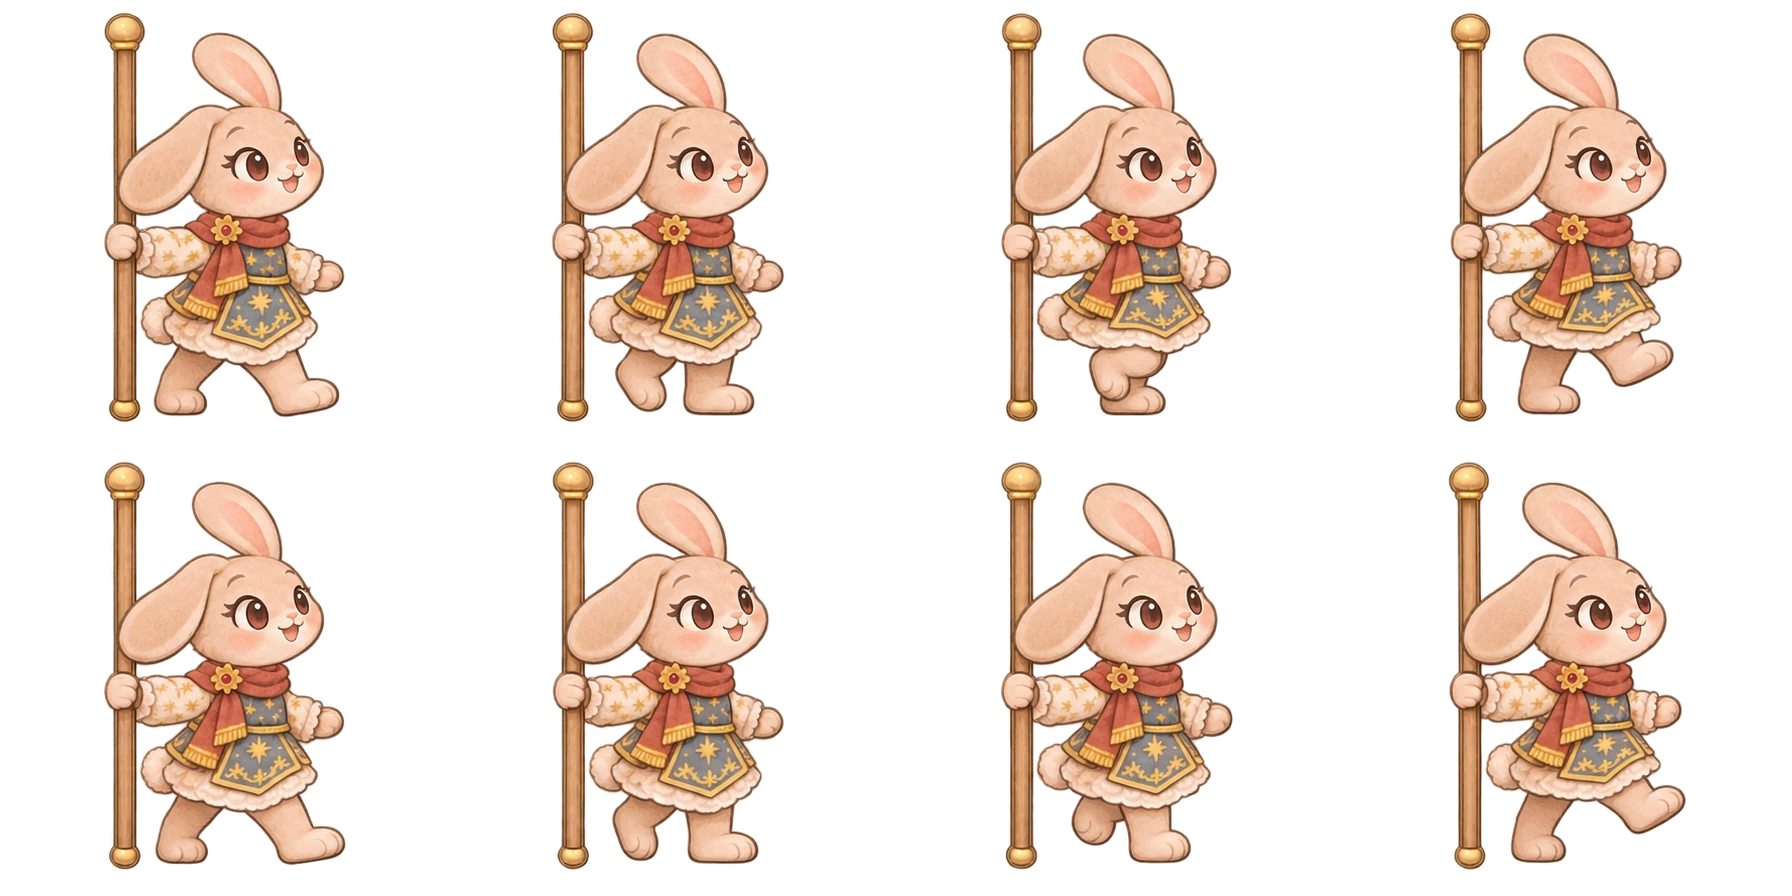
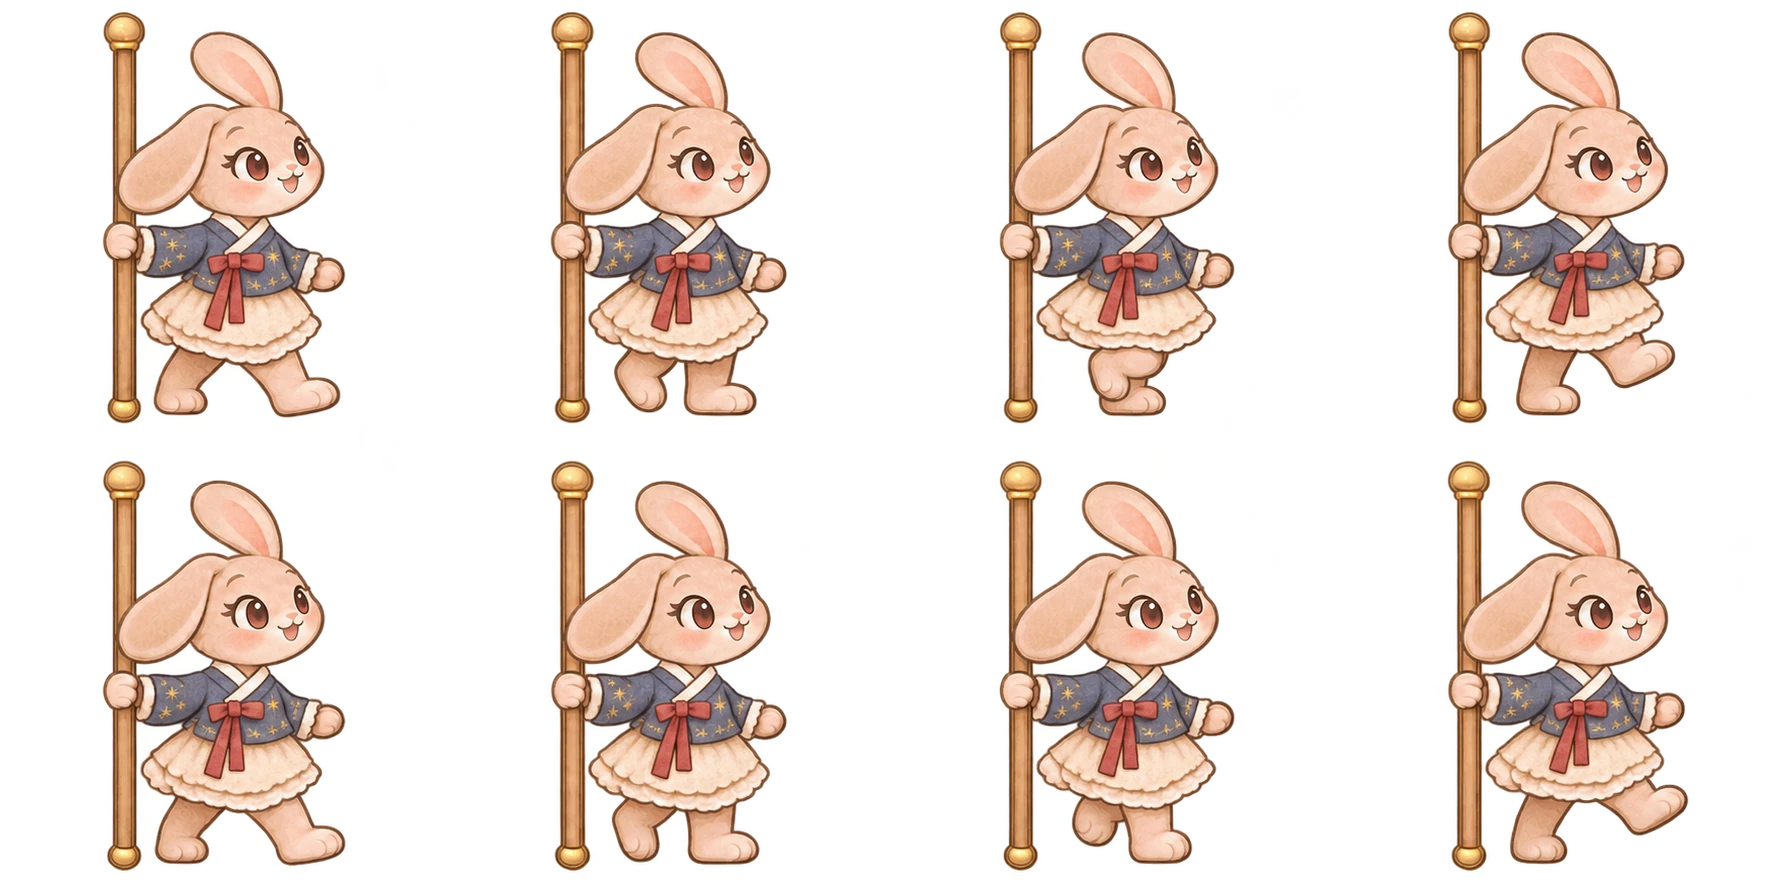
퍼레이드 캐릭터를 한복 걷기 그림으로, 오색 꽃가루 축하 연출 추가
- 리리·모모·루루 걷기 시트를 한복 그림으로(parade-src/hanbok, 1774×887 → 1792×896 448칸). 장대·발 기준값은 예전과 같아 그대로
- 오색 꽃가루 아틀라스를 15장(꽃잎·한지 색종이·별 × 다홍·청록·황금·아이보리·보라)으로 나눔: assets/parade/confetti
- 캔버스 파티클: 크기(1920 기준 8~24px 비례)·처음 각도·회전 속도·낙하 속도가 저마다 다르고, 바람·중력·공기 저항, 나타날 때·사라질 때 투명도
  꽃잎은 살랑, 색종이는 빙글빙글 뒤집힘, 별은 반짝이며 천천히
- 행진에 맞춘 일정: 시작에 양옆 팡(40~60) → 2~3초마다 위에서 조금씩 → 퇴장할 때 왼쪽·오른쪽·양쪽 함께 피날레(130), 끝난 뒤 몇 초 흩날리다 사라짐
- 배경 → 뒤쪽 꽃가루(작고 옅게) → 캐릭터·현수막 → 앞쪽 꽃가루(조금 크고 선명하게). 최대 200개, 화면 밖은 지움, 다시 보기·닫기 때 정리
- 퍼레이드 캔버스 pointer-events: none

diff --git a/js/parade/show.js b/js/parade/show.js
@@ -6,8 +6,11 @@
  *  2. 시작 1120ms(오프닝 README 의 카트 신호)에 모모·루루가 현수막을 들고 왼쪽에서 걸어 들어옴.
  *     리리는 행렬이 가까이 오면 걷기 그림으로 바꿔 맨 앞에서 같이 걸음
  *  3. 현수막 가운데가 화면 가운데에 오면 잠깐 멈춰 작품을 보여 주고, 다시 걸어서 오른쪽으로 퇴장
- * 걷기 시트(448 칸, 4×2): 장대 중심 x 모모 329, 루루 125. 모모·루루는 같은 프레임 번호·같은 속도.
+ * 걷기 시트(한복, 448 칸, 4×2): 장대 중심 x 모모 329, 루루 125. 모모·루루는 같은 프레임 번호·같은 속도.
  * 현수막은 아이가 꾸민 그림(비율 그대로)을 두 장대 사이에 붙이고, 그림 아래 술 장식(아랫단)만 살짝 흔듦.
+ * 오색 꽃가루(assets/parade/confetti/*.png — 꽃잎·한지 색종이·별 × 다홍·청록·황금·아이보리·보라 15장):
+ *  행진 시작에 양옆에서 팡 → 행진 중 위에서 조금씩(2~3초마다) → 퇴장할 때 피날레(왼쪽 → 오른쪽 → 양쪽 함께)
+ *  뒤쪽 꽃가루(작고 옅게)는 캐릭터 뒤에, 앞쪽 꽃가루(조금 크고 선명하게)는 캐릭터 앞에 같은 캔버스로 그림
  * 좌표는 배경 그림(1672×941) 기준.
  */
 (function () {
@@ -38,9 +41,104 @@
     });
     return cache[key];
   }
+  function loadImg(src) {
+    if (!cache[src]) cache[src] = new Promise(function (res, rej) {
+      var im = new Image(); im.onload = function () { res(im); }; im.onerror = rej; im.src = src;
+    });
+    return cache[src];
+  }
+  var CF_KINDS = ['petal', 'paper', 'star'];
   function loadAll(base) {
-    return Promise.all(['parade-bg', 'riri-opening', 'riri', 'momo', 'lulu'].map(function (n) { return load(base, n); }))
-      .then(function (a) { return { bg: a[0], open: a[1], riri: a[2], momo: a[3], lulu: a[4] }; });
+    var confetti = [];
+    CF_KINDS.forEach(function (k) { for (var c = 0; c < 5; c++) confetti.push(loadImg(base + 'confetti/' + k + '-' + c + '.png')); });
+    return Promise.all(['parade-bg', 'riri-opening', 'riri', 'momo', 'lulu'].map(function (n) { return load(base, n); }).concat(confetti))
+      .then(function (a) {
+        var cf = { petal: a.slice(5, 10), paper: a.slice(10, 15), star: a.slice(15, 20) };
+        return { bg: a[0], open: a[1], riri: a[2], momo: a[3], lulu: a[4], confetti: cf };
+      });
+  }
+
+  // ---------- 오색 꽃가루(파티클) ----------
+  // 크기는 1920×1080 화면 기준 8~24px → 이 캔버스(1672 폭)에 비례. 캔버스가 화면 크기대로 늘고 줄어 함께 비례함
+  var CF_SCALE = IW / 1920, CF_MAX = 200;
+  // 종류마다 낙하: 중력 g(px/s²) · 공기 저항 k(1/s) → 끝 속도 약 g/k
+  var CF_KIND = {
+    petal: { g: 240, k: 3.2 },    // 약 75px/s, 좌우로 살랑
+    paper: { g: 260, k: 2.7 },    // 약 95px/s, 빙글빙글 뒤집힘
+    star: { g: 170, k: 3.6 }      // 약 47px/s, 천천히 반짝
+  };
+  function rnd(a, b) { return a + Math.random() * (b - a); }
+  function pick(arr) { return arr[Math.floor(Math.random() * arr.length)]; }
+  function makeConfetti(ctx, set) {
+    var parts = [], t = 0;
+    function add(o) {
+      if (parts.length >= CF_MAX) return;
+      var kind = o.kind || pick(CF_KINDS), front = o.front != null ? o.front : Math.random() < 0.45;
+      var im = pick(set[kind]), base = rnd(8, 24) * CF_SCALE;
+      var size = base * (front ? rnd(1.15, 1.45) : rnd(0.55, 0.8));
+      parts.push({
+        kind: kind, im: im, front: front, size: size, ar: im.height / im.width,
+        x: o.x, y: o.y, vx: o.vx || 0, vy: o.vy || 0,
+        r: rnd(0, Math.PI * 2),
+        vr: (Math.random() < 0.5 ? -1 : 1) * (kind === 'paper' ? rnd(2.2, 5.5) : rnd(0.3, 1.2)),
+        ph: rnd(0, Math.PI * 2), sf: kind === 'paper' ? rnd(4, 9) : kind === 'star' ? rnd(3, 6) : rnd(1.6, 2.8),
+        sway: kind === 'petal' ? rnd(25, 55) : kind === 'paper' ? rnd(8, 22) : rnd(5, 12),
+        drag0: o.burst ? rnd(0.45, 0.85) : null,   // 터질 때는 공기 저항이 약하다가 점점 종류의 값으로
+        age: 0, life: o.life || rnd(6, 9), alpha: front ? rnd(0.9, 1) : rnd(0.5, 0.7)
+      });
+    }
+    // 양옆 아래에서 위로 팡: side -1 왼쪽, 1 오른쪽
+    function burst(side, n, life) {
+      for (var i = 0; i < n; i++) add({
+        burst: true, life: life ? rnd(life[0], life[1]) : rnd(4, 6),
+        x: side < 0 ? rnd(-20, 40) : IW - rnd(-20, 40), y: IH * rnd(0.8, 0.98),
+        vx: -side * rnd(220, 980), vy: -rnd(900, 1500)
+      });
+    }
+    // 위에서 조금씩 흩날림(꽃잎·색종이 위주)
+    function drift(n) {
+      for (var i = 0; i < n; i++) add({
+        kind: Math.random() < 0.85 ? (Math.random() < 0.55 ? 'petal' : 'paper') : 'star',
+        x: rnd(-40, IW + 40), y: rnd(-60, -20), vx: rnd(-20, 20), vy: rnd(20, 60), life: rnd(9, 13)
+      });
+    }
+    function wind(time) { return 26 * Math.sin(time / 2.3) + 11 * Math.sin(time / 0.83 + 1.3); }
+    function update(dt) {
+      t += dt;
+      var w = wind(t);
+      for (var i = parts.length - 1; i >= 0; i--) {
+        var p = parts[i], kd = CF_KIND[p.kind];
+        p.age += dt;
+        var k = p.drag0 != null ? p.drag0 + (kd.k - p.drag0) * Math.min(1, p.age / 1.1) : kd.k;
+        p.vy += kd.g * dt;
+        p.vx += (w - p.vx) * Math.min(1, k * 0.35 * dt);          // 바람 쪽으로 천천히 끌림
+        p.vx -= p.vx * k * 0.25 * dt; p.vy -= p.vy * k * dt;       // 공기 저항(세로가 더 커서 넓게 퍼지며 떨어짐)
+        p.ph += p.sf * dt;
+        p.x += (p.vx + (p.kind === 'petal' ? p.sway * Math.cos(p.ph) : p.sway * 0.5 * Math.cos(p.ph * 0.5))) * dt;
+        p.y += p.vy * dt;
+        p.r += p.vr * dt;
+        if (p.age > p.life || p.y > IH + 40 || p.x < -120 || p.x > IW + 120) parts.splice(i, 1);
+      }
+    }
+    function draw(front) {
+      for (var i = 0; i < parts.length; i++) {
+        var p = parts[i];
+        if (p.front !== front) continue;
+        var fade = Math.min(1, p.age / 0.25) * Math.min(1, (p.life - p.age) / 0.9);   // 나타날 때·사라질 때 부드럽게
+        var sx = 1, sy = 1, a = p.alpha * fade, r = p.r;
+        if (p.kind === 'petal') { r += 0.5 * Math.sin(p.ph); sx = 0.72 + 0.28 * Math.cos(p.ph * 1.3); }
+        else if (p.kind === 'paper') { sx = Math.cos(p.ph); if (Math.abs(sx) < 0.08) sx = sx < 0 ? -0.08 : 0.08; }
+        else { var tw = Math.sin(p.ph); sx = sy = 0.9 + 0.12 * tw; a *= 0.78 + 0.22 * tw; }
+        if (a <= 0.01) continue;
+        var c = Math.cos(r), s = Math.sin(r), w = p.size, h = p.size * p.ar;
+        ctx.globalAlpha = a;
+        ctx.setTransform(c * sx, s * sx, -s * sy, c * sy, p.x, p.y);
+        ctx.drawImage(p.im, -w / 2, -h / 2, w, h);
+      }
+      ctx.setTransform(1, 0, 0, 1, 0, 0); ctx.globalAlpha = 1;
+    }
+    return { burst: burst, drift: drift, update: update, draw: draw, count: function () { return parts.length; },
+      clear: function () { parts.length = 0; t = 0; } };
   }
   function openingFrame(ms) {
     for (var i = 0, end = 0; i < OPEN_MS.length; i++) { end += OPEN_MS[i]; if (ms < end) return i; }
@@ -78,7 +176,8 @@
     var cv = opt.canvas, ctx = cv.getContext('2d');
     cv.width = IW; cv.height = IH;
     var banner = opt.banner, hem = null, art = null, raf = 0, t0 = 0, ended = false, imgs = null;
-    var ready = loadAll(opt.base || 'assets/parade/').then(function (a) { imgs = a; return a; });
+    var cf = null, cues = null, lastMs = 0;
+    var ready = loadAll(opt.base || 'assets/parade/').then(function (a) { imgs = a; cf = makeConfetti(ctx, a.confetti); return a; });
 
     // 현수막 크기: 높이는 정해 두고, 폭은 꾸민 그림 비율 그대로(장대 간격 = 현수막 폭)
     var bh = BANNER_H * K, bw = bh * 2;
@@ -107,7 +206,8 @@
       if (w < walkIn) { travel = w; phase = 'in'; }
       else if (w < walkIn + PAUSE_MS) { travel = walkIn; phase = 'pause'; }
       else { travel = walkIn + Math.min(walkOut, w - walkIn - PAUSE_MS); phase = w - walkIn - PAUSE_MS >= walkOut ? 'done' : 'out'; }
-      return { pole: startX + travel * WALK.speed, travel: travel, phase: phase, walking: phase === 'in' || phase === 'out' };
+      return { pole: startX + travel * WALK.speed, travel: travel, phase: phase, walking: phase === 'in' || phase === 'out',
+        outAt: CART_CUE + walkIn + PAUSE_MS };
     }
 
     function sheet(im, frame, x, y) {
@@ -132,6 +232,7 @@
       if (!imgs) return;
       ctx.clearRect(0, 0, IW, IH);
       ctx.drawImage(imgs.bg, 0, 0, IW, IH);
+      if (cf) cf.draw(false);                            // 뒤쪽 꽃가루(작고 옅게)
       var tl = timeline(ms);
       var frame = tl.walking ? Math.floor(tl.travel / WALK.frameMs) % 8 : 0;
       var momoX = tl.pole - MOMO.pole * K, momoY = GROUND - MOMO.foot * K;
@@ -152,6 +253,7 @@
         shadow(lead, 110 * K);
         sheet(imgs.riri, frame, lead - RIRI.mid * K, GROUND - RIRI.foot * K);
       }
+      if (cf) cf.draw(true);                             // 앞쪽 꽃가루(조금 크고 선명하게)
       return tl.phase;
     }
     function shadow(x, w) {
@@ -162,24 +264,45 @@
       ctx.fillStyle = g; ctx.beginPath(); ctx.arc(0, 0, w, 0, Math.PI * 2); ctx.fill();
       ctx.restore();
     }
+    // 꽃가루 일정(행진 시간에 맞춤): 행진 시작 팡(양옆 합쳐 40~60) → 2~3초마다 조금씩 → 퇴장할 때 피날레(130)
+    function makeCues() {
+      var tl = timeline(0), list = [];
+      list.push({ at: CART_CUE, fn: function () { var n = 40 + Math.floor(Math.random() * 21); cf.burst(-1, Math.ceil(n / 2)); cf.burst(1, Math.floor(n / 2)); } });
+      for (var at = CART_CUE + 2400; at < tl.outAt + 400; at += rnd(2000, 3000)) list.push({ at: at, fn: function () { cf.drift(3 + Math.floor(Math.random() * 4)); } });
+      list.push({ at: tl.outAt + 500, fn: function () { cf.burst(-1, 30, [4, 5.5]); } });
+      list.push({ at: tl.outAt + 1300, fn: function () { cf.burst(1, 30, [4, 5.5]); } });
+      list.push({ at: tl.outAt + 2300, fn: function () { cf.burst(-1, 35, [4.5, 6]); cf.burst(1, 35, [4.5, 6]); } });
+      return list.sort(function (a, b) { return a.at - b.at; });
+    }
+    function runCues(ms) {
+      while (cues && cues.length && cues[0].at <= ms) cues.shift().fn();
+    }
     function loop(now) {
-      var phase = render(now - t0);
-      if (phase === 'done') { if (!ended) { ended = true; if (opt.onEnd) opt.onEnd(); } return; }
+      var ms = now - t0, dt = Math.min(0.05, Math.max(0, (ms - lastMs) / 1000));
+      lastMs = ms;
+      runCues(ms); cf.update(dt);
+      var phase = render(ms);
+      if (phase === 'done' && !ended) { ended = true; if (opt.onEnd) opt.onEnd(); }
+      // 행진이 끝나도 마지막 꽃가루가 다 흩날려 사라질 때까지 그림
+      if (phase === 'done' && !cf.count() && !(cues && cues.length)) return;
       raf = requestAnimationFrame(loop);
     }
     function play() {
       cancelAnimationFrame(raf); ended = false;
       return ready.then(function () {
+        cancelAnimationFrame(raf);
+        cf.clear(); cues = makeCues(); lastMs = 0;     // 다시 보기: 남은 꽃가루·일정을 비우고 처음부터(겹치지 않게)
         t0 = performance.now();
         raf = requestAnimationFrame(loop);
       });
     }
-    function stop() { cancelAnimationFrame(raf); }
+    function stop() { cancelAnimationFrame(raf); if (cf) cf.clear(); cues = null; }
     return {
       play: play, stop: stop, ready: ready, setBanner: setBanner,
       // 검증용: 특정 시각의 장면을 그려 보고 위치를 돌려줌
+      _confetti: function () { return cf ? cf.count() : 0; },
       _at: function (ms) {
-        stop(); render(ms);
+        cancelAnimationFrame(raf); render(ms);
         var tl = timeline(ms);
         return { phase: tl.phase, momoPole: tl.pole, luluPole: tl.pole + bw, bannerW: bw, bannerH: bh,
           frame: tl.walking ? Math.floor(tl.travel / WALK.frameMs) % 8 : 0 };

diff --git a/css/parade.css b/css/parade.css
@@ -165,7 +165,7 @@ body.parade-open #hud, body.parade-open #enterFacility, body.parade-open #chatBa
   animation: pr-pop-in 0.28s ease-out;
 }
 @keyframes pr-pop-in { from { transform: scale(0.92); opacity: 0; } to { transform: none; opacity: 1; } }
-.pr-pop-canvas { display: block; width: 100%; height: 100%; }
+.pr-pop-canvas { display: block; width: 100%; height: 100%; pointer-events: none; }   /* 퍼레이드·꽃가루 캔버스는 버튼 조작을 막지 않음 */
 .pr-pop-x {
   position: absolute; right: 1.6%; top: 2.4%; width: 3.6cqw; height: 3.6cqw; border-radius: 50%; padding: 0;
   font-size: 1.7cqw; line-height: 1; background: #fff8f1; color: #8b3a48; border: 0.16cqw solid #e2b357;

diff --git a/tools/build_parade.py b/tools/build_parade.py
@@ -1,33 +1,64 @@
-"""레인보우 퍼레이드 그림 만들기
+"""무지개 행진길(레인보우 퍼레이드) 그림 만들기
 
 받은 원본(assets/parade-src)을 게임용 그림(assets/parade)으로 바꿉니다.
-- lobby.webp        : 장밋빛 퍼레이드 로비(1672×941) — 대기실 배경
-- parade-bg.webp    : 분수 정원 광장(1672×941) — 퍼레이드 팝업 배경
-- riri-opening.webp : 리리 인사 8프레임(640×640 칸, 4×2) — 발 기준점 (320, 608)
-- riri/momo/lulu.webp : 걷기 8프레임(448×448 칸, 4×2) — 장대 중심 x 모모 330, 루루 125 (walk-README.md)
+- lobby.webp        : 대기실 배경(1672×941)
+- parade-bg.webp    : 퍼레이드 팝업 배경(1672×941)
+- riri/momo/lulu.webp : 한복 걷기 8프레임 — 받은 시트(parade-src/hanbok/*.png, 1774×887 = 443.5 칸)를
+                      1792×896(448 칸, 4×2)으로 맞춤. 예전 걷기 시트와 장대 중심 x(모모 330, 루루 125)·발 밑 y가 같아서
+                      js/parade/show.js 의 기준값을 그대로 씀
+- confetti/{petal,paper,star}-0~4.png : 오색 꽃가루 아틀라스(parade-src/confetti-atlas.png, 5칸×3줄)를 15장으로 나눔
+                      줄: 꽃잎 · 한지 색종이 · 별 / 칸: 다홍 · 청록 · 황금 · 아이보리 · 보라
+                      칸마다 투명 여백만 잘라 내고(비율·질감 그대로) 긴 변 최대 96px로 줄임
+리리 인사(riri-opening.webp)는 tools/build_hanok_npcs.py 가 만듭니다.
 (assets/parade-src/toolbox.png 는 처음 받은 화면 시안 — 참고용, 게임에는 쓰지 않음)
-그림을 바꾸려면 assets/parade-src 의 같은 이름 파일을 바꾸고 다시 실행하세요.
 
 실행: python tools/build_parade.py
 """
 import os
 
+import numpy as np
 from PIL import Image
 
 ROOT = os.path.dirname(os.path.dirname(os.path.abspath(__file__)))
 SRC = os.path.join(ROOT, 'assets', 'parade-src')
 OUT = os.path.join(ROOT, 'assets', 'parade')
+KINDS = ['petal', 'paper', 'star']
+CONFETTI_MAX = 96
+
+
+def trim(im, pad=3):
+    a = np.array(im)[:, :, 3]
+    ys, xs = np.where(a > 8)
+    x0, y0 = max(0, xs.min() - pad), max(0, ys.min() - pad)
+    x1, y1 = min(im.width, xs.max() + 1 + pad), min(im.height, ys.max() + 1 + pad)
+    return im.crop((int(x0), int(y0), int(x1), int(y1)))
 
 
 def main():
     os.makedirs(OUT, exist_ok=True)
     for name, ext in (('lobby', '.png'), ('parade-bg', '.webp')):
         Image.open(os.path.join(SRC, name + ext)).convert('RGB').save(os.path.join(OUT, name + '.webp'), quality=88)
-    for name in ('riri-opening', 'riri', 'momo', 'lulu'):
-        im = Image.open(os.path.join(SRC, name + '.png')).convert('RGBA')
+    for name in ('riri', 'momo', 'lulu'):
+        im = Image.open(os.path.join(SRC, 'hanbok', name + '.png')).convert('RGBA').resize((1792, 896), Image.LANCZOS)
         im.save(os.path.join(OUT, name + '.webp'), quality=90, alpha_quality=100, method=6)
+
+    atlas = Image.open(os.path.join(SRC, 'confetti-atlas.png')).convert('RGBA')
+    cw, ch = atlas.width / 5, atlas.height / 3
+    os.makedirs(os.path.join(OUT, 'confetti'), exist_ok=True)
+    for r, kind in enumerate(KINDS):
+        for c in range(5):
+            cell = atlas.crop((round(c * cw), round(r * ch), round((c + 1) * cw), round((r + 1) * ch)))
+            piece = trim(cell)
+            k = CONFETTI_MAX / max(piece.size)
+            if k < 1:
+                piece = piece.resize((max(1, round(piece.width * k)), max(1, round(piece.height * k))), Image.LANCZOS)
+            path = os.path.join(OUT, 'confetti', '%s-%d.png' % (kind, c))
+            piece.save(path, optimize=True)
+            print(os.path.relpath(path, ROOT), piece.size)
     for f in sorted(os.listdir(OUT)):
-        print(f, os.path.getsize(os.path.join(OUT, f)) // 1024, 'KB')
+        p = os.path.join(OUT, f)
+        if os.path.isfile(p):
+            print(f, os.path.getsize(p) // 1024, 'KB')
 
 
 if __name__ == '__main__':

diff --git a/README.md b/README.md
@@ -46,7 +46,7 @@
 | `assets/picnic/`, `assets/picnic-src/` | 토리네 도시락 그림(대기실 배경, 토리 인사 8프레임, 빈 도시락, 재료 4종)과 받은 원본. `python tools/build_picnic.py`로 만듦 |
 | `tools/verify_picnic.js` | 주문 판정 자동 검증 (`node tools/verify_picnic.js`) |
 | `js/parade/ui.js`, `css/parade.css` | 무지개 행진길: 대기실 걷기·리리에게 말 걸기 → 시작 창 → 현수막 꾸미기(처음엔 하는 법, 색연필 8색·지우개·되돌리기·도장 4개, 천과 그림 레이어 분리) → 퍼레이드 팝업(다시 보기·꾸미기로 돌아가기) |
-| `js/parade/show.js` | 퍼레이드 그리기: 리리 8프레임 오프닝 → 모모(왼쪽)·루루(오른쪽)가 현수막을 들고 행진 → 가운데에서 잠깐 멈춤 → 퇴장. 아랫단 술만 흔들림 |
+| `js/parade/show.js` | 퍼레이드 그리기: 리리 8프레임 오프닝 → 모모(왼쪽)·루루(오른쪽)가 현수막을 들고 행진(한복 걷기 그림) → 가운데에서 잠깐 멈춤 → 퇴장. 아랫단 술만 흔들림. 오색 꽃가루(꽃잎·한지 색종이·별 15장, `assets/parade/confetti/`): 행진 시작 팡 → 2~3초마다 조금씩 → 퇴장할 때 피날레, 캐릭터 뒤·앞 두 겹, 최대 200개 |
 | `assets/parade/`, `assets/parade-src/` | 퍼레이드 그림(장밋빛 로비, 퍼레이드 배경 분수 정원 광장, 리리 오프닝 640칸, 리리·모모·루루 걷기 448칸 — 장대 중심 x 모모 329·루루 125)과 받은 원본·README. `python tools/build_parade.py`로 만듦 |
 | `js/thrill/physics.js` | 콩콩 범퍼카 움직임·판정(화면과 분리): 범퍼카 8방향 가속·감속, 둥근 네모 벽 튕김, 물체 밀기, 헤드라이트 광선 |
 | `js/thrill/people.js` | 토토의 범퍼카 연구소 학년별 인물 이야기 카드 3장·퀴즈 3문제(고치기 쉬운 데이터) |
